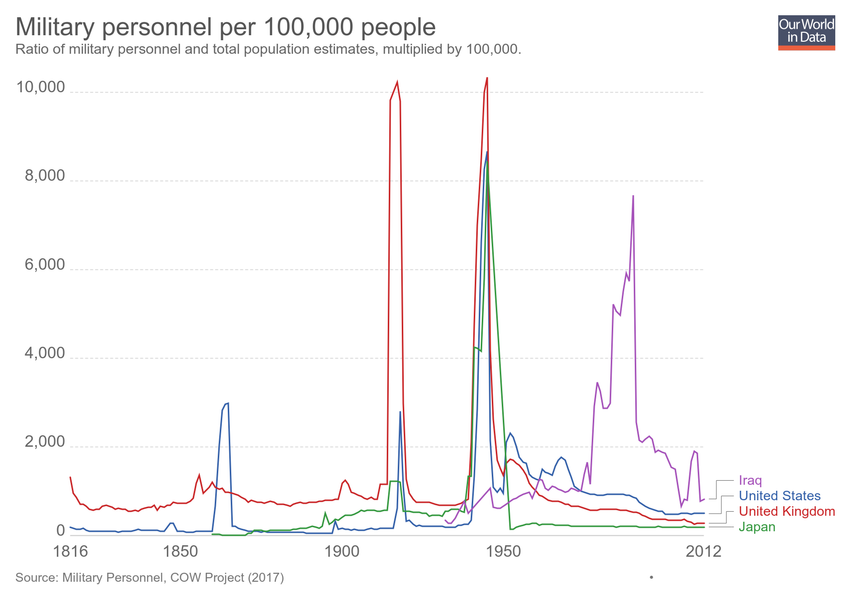
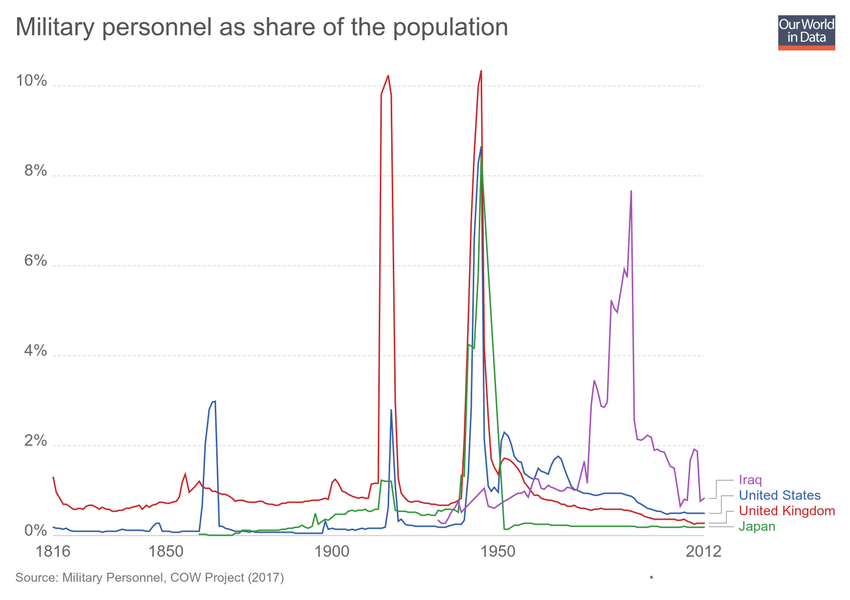
Updating chart military-personnel-relative-to-total-population

diff --git a/grapher/military-personnel-relative-to-total-population.html b/grapher/military-personnel-relative-to-total-population.html
@@ -1,4 +1,4 @@
-<!doctype html><html><head><meta name="viewport" content="width=device-width, initial-scale=1" /><title>Military personnel per 100,000 people - Our World in Data</title><meta name="description" content="Ratio of military personnel and total population estimates, multiplied by 100,000." /><link rel="canonical" href="https://ourworldindata.org/grapher/military-personnel-relative-to-total-population" /><meta property="fb:app_id" content="1149943818390250" /><meta property="og:url" content="https://ourworldindata.org/grapher/military-personnel-relative-to-total-population" /><meta property="og:title" content="Military personnel per 100,000 people" /><meta property="og:description" content="Ratio of military personnel and total population estimates, multiplied by 100,000." /><meta property="og:image" content="https://ourworldindata.org/grapher/exports/military-personnel-relative-to-total-population.png?v=12" /><meta property="og:image:width" content="850" /><meta property="og:image:height" content="600" /><meta property="og:site_name" content="Our World in Data" /><meta name="twitter:card" content="summary_large_image" /><meta name="twitter:site" content="@OurWorldInData" /><meta name="twitter:creator" content="@OurWorldInData" /><meta name="twitter:title" content="Military personnel per 100,000 people" /><meta name="twitter:description" content="Ratio of military personnel and total population estimates, multiplied by 100,000." /><meta name="twitter:image" content="https://ourworldindata.org/grapher/exports/military-personnel-relative-to-total-population.png?v=12" /><style>
+<!doctype html><html><head><meta name="viewport" content="width=device-width, initial-scale=1" /><title>Military personnel as share of the population - Our World in Data</title><meta name="description" content="An interactive visualization from Our World in Data." /><link rel="canonical" href="https://ourworldindata.org/grapher/military-personnel-relative-to-total-population" /><meta property="fb:app_id" content="1149943818390250" /><meta property="og:url" content="https://ourworldindata.org/grapher/military-personnel-relative-to-total-population" /><meta property="og:title" content="Military personnel as share of the population" /><meta property="og:description" content="An interactive visualization from Our World in Data." /><meta property="og:image" content="https://ourworldindata.org/grapher/exports/military-personnel-relative-to-total-population.png?v=14" /><meta property="og:image:width" content="850" /><meta property="og:image:height" content="600" /><meta property="og:site_name" content="Our World in Data" /><meta name="twitter:card" content="summary_large_image" /><meta name="twitter:site" content="@OurWorldInData" /><meta name="twitter:creator" content="@OurWorldInData" /><meta name="twitter:title" content="Military personnel as share of the population" /><meta name="twitter:description" content="An interactive visualization from Our World in Data." /><meta name="twitter:image" content="https://ourworldindata.org/grapher/exports/military-personnel-relative-to-total-population.png?v=14" /><style>
         html, body {
             height: 100%;
             margin: 0;
@@ -20,8 +20,8 @@
         }
     </style><noscript><style>
                     figure { display: none !important; }
-                </style></noscript><link rel="stylesheet" href="https://ourworldindata.org/grapher/assets/commons.bundle.a7ce280024c736539280.css" /><link rel="preload" href="/grapher/data/variables/96657.json?v=12" as="fetch" crossorigin /></head><body class="singleChart"><figure data-grapher-src="/grapher/military-personnel-relative-to-total-population"></figure><noscript id="fallback"><img src="/grapher/exports/military-personnel-relative-to-total-population.svg" /><p>Interactive visualization requires JavaScript</p></noscript><script src="https://cdn.polyfill.io/v2/polyfill.min.js?features=es6,fetch"></script><script src="https://ourworldindata.org/grapher/assets/commons.bundle.a7ce280024c736539280.js"></script><script src="https://ourworldindata.org/grapher/assets/charts.bundle.dcf65b68eddaba4c6a58.js"></script><script>
-        var jsonConfig = {"id":2565,"map":{"projection":"World","targetYear":2012,"variableId":96657,"binStepSize":100,"baseColorScheme":"Reds","colorSchemeLabels":[],"colorSchemeValues":[],"colorSchemeMinValue":0,"customNumericColors":[],"customCategoryColors":{},"customCategoryLabels":{},"customHiddenCategories":{}},"tab":"chart","slug":"military-personnel-relative-to-total-population","type":"LineChart","title":"Military personnel per 100,000 people","xAxis":{"scaleType":"linear"},"yAxis":{"min":0,"scaleType":"linear"},"version":12,"subtitle":"Ratio of military personnel and total population estimates, multiplied by 100,000.","hasMapTab":true,"stackMode":"absolute","dimensions":[{"display":{"unit":"per 100,000 people","numDecimalPlaces":0},"property":"y","variableId":96657}],"hasChartTab":true,"isPublished":true,"selectedData":[{"color":"#3360a9","index":0,"entityId":13},{"color":"#ca2628","index":0,"entityId":1},{"color":"#34983f","index":0,"entityId":14},{"color":"#a652ba","index":0,"entityId":134}],"addCountryMode":"add-country"};
+                </style></noscript><link rel="stylesheet" href="https://ourworldindata.org/grapher/assets/commons.bundle.a7ce280024c736539280.css" /><link rel="preload" href="/grapher/data/variables/96657.json?v=14" as="fetch" crossorigin /></head><body class="singleChart"><figure data-grapher-src="/grapher/military-personnel-relative-to-total-population"></figure><noscript id="fallback"><img src="/grapher/exports/military-personnel-relative-to-total-population.svg" /><p>Interactive visualization requires JavaScript</p></noscript><script src="https://cdn.polyfill.io/v2/polyfill.min.js?features=es6,fetch"></script><script src="https://ourworldindata.org/grapher/assets/commons.bundle.a7ce280024c736539280.js"></script><script src="https://ourworldindata.org/grapher/assets/charts.bundle.dcf65b68eddaba4c6a58.js"></script><script>
+        var jsonConfig = {"id":2565,"map":{"projection":"World","targetYear":2012,"variableId":96657,"binStepSize":100,"baseColorScheme":"Reds","colorSchemeLabels":[],"colorSchemeValues":[],"colorSchemeMinValue":0,"customNumericColors":[],"customCategoryColors":{},"customCategoryLabels":{},"customHiddenCategories":{}},"tab":"chart","slug":"military-personnel-relative-to-total-population","type":"LineChart","title":"Military personnel as share of the population","xAxis":{"scaleType":"linear"},"yAxis":{"min":0,"scaleType":"linear"},"version":14,"hasMapTab":true,"stackMode":"absolute","dimensions":[{"display":{"name":"Military personnel as share of the population COW (2017)","unit":"share of the population","shortUnit":"%","conversionFactor":0.001,"numDecimalPlaces":0},"property":"y","variableId":96657}],"hasChartTab":true,"isPublished":true,"selectedData":[{"color":"#3360a9","index":0,"entityId":13},{"color":"#ca2628","index":0,"entityId":1},{"color":"#34983f","index":0,"entityId":14},{"color":"#a652ba","index":0,"entityId":134}],"addCountryMode":"add-country"};
         var figure = document.getElementsByTagName("figure")[0];
         try {
             window.App = {};
